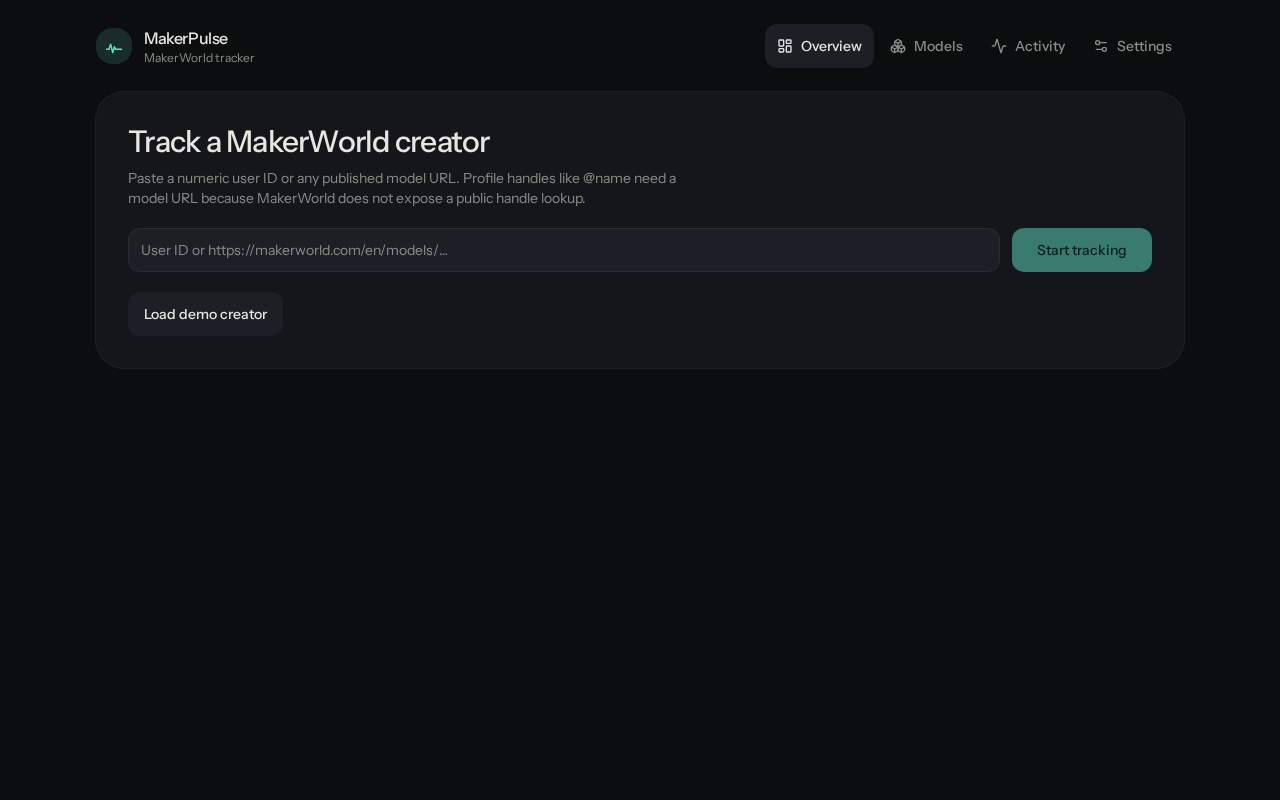
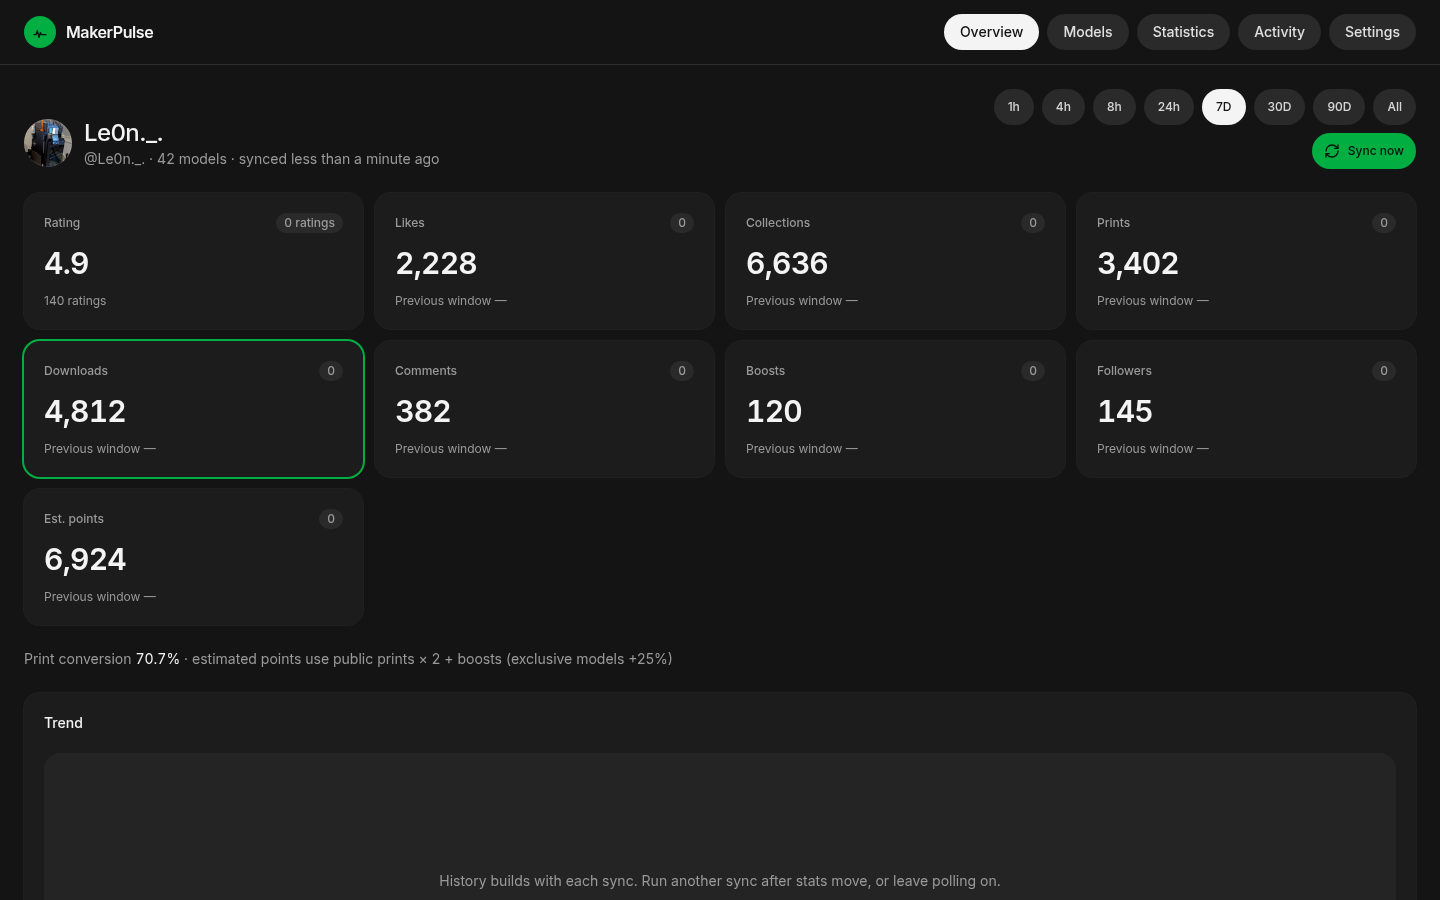
Refresh the README screenshots
Replace the old overview image and add Models, Statistics, Activity, and Settings.

diff --git a/README.md b/README.md
@@ -10,9 +10,13 @@ Self-hosted **MakerWorld** creator analytics. Track likes, collections, prints, 
 
 ![Overview](screenshots/home.png)
 
-| Overview | Models | Activity |
-| --- | --- | --- |
-| Period KPIs and charts (`1h`–`ALL`) | Sort by date or any metric | Filterable changelog |
+| Models | Statistics |
+| --- | --- |
+| ![Models](screenshots/models.png) | ![Statistics](screenshots/statistics.png) |
+
+| Activity | Settings |
+| --- | --- |
+| ![Activity](screenshots/activity.png) | ![Settings](screenshots/settings.png) |
 
 ## Features
 

diff --git a/CHANGELOG.md b/CHANGELOG.md
@@ -16,6 +16,7 @@ Image: `ghcr.io/leon199219/makerpulse:latest`
 
 ### Changed
 
+- README screenshots show the current dark interface: Overview, Models, Statistics, Activity, and Settings.
 - On Models, Likes, Collections, Prints, Downloads, Comments, Boosts, and Est. points sort by the change in the selected period. All still sorts by the all-time total.
 - Models can switch between grid and list. The list uses a small cover image. The choice is remembered in the browser. Grid and List sit on the right of the sort row.
 
